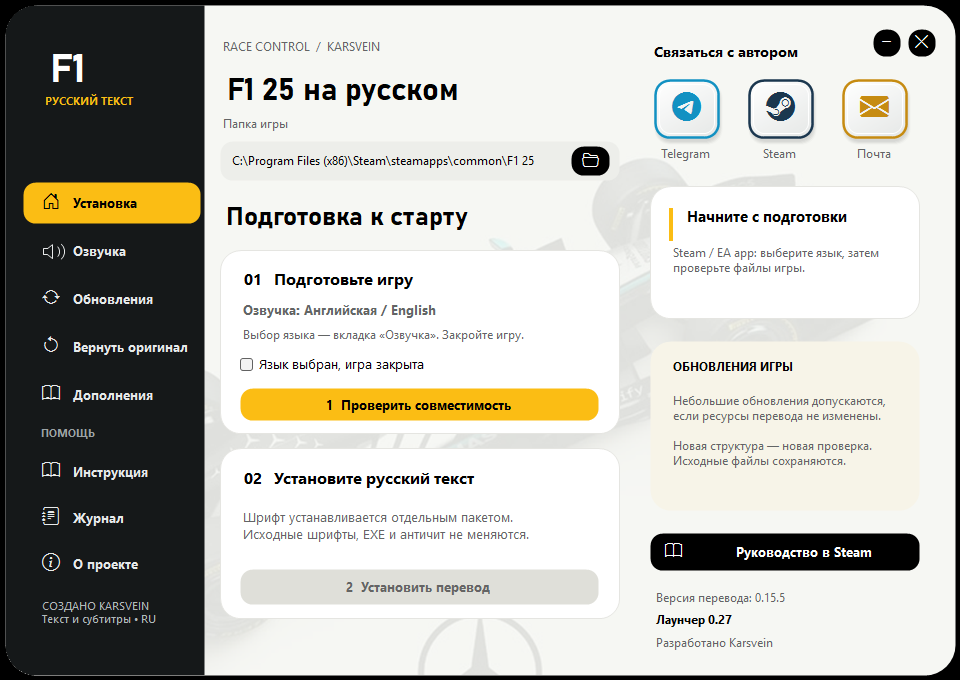
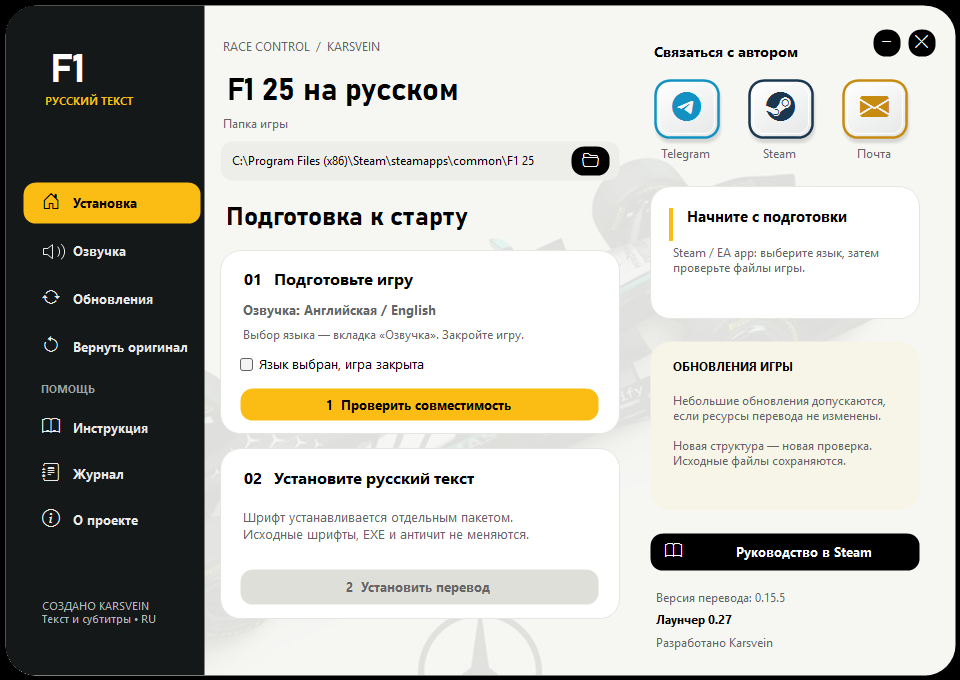
Ship Steam and EA only; keep optional addon out of release

diff --git a/Launcher.cs b/Launcher.cs
@@ -72,9 +72,9 @@ sealed partial class Launcher : Form {
   path=new TextBox{Bounds=new Rectangle(12,12,332,22),BorderStyle=BorderStyle.None,Font=new Font("Segoe UI",9),BackColor=location.BackColor,Text=@"C:\Program Files (x86)\Steam\steamapps\common\F1 25",AccessibleName="Папка игры F1 25"};location.Controls.Add(path);
   path.TextChanged+=(s,e)=>{prepared=false;RefreshControls();RefreshVoice();SetStatus("Путь изменён","Проверьте выбранную папку перед установкой.",muted);};
   browse=ButtonAt(location,"",351,5,39,30,false,0xf3d8);browse.AccessibleName="Выбрать папку игры";contactTips.SetToolTip(browse,"Выбрать папку F1 25");browse.Click+=(s,e)=>{using(var d=new FolderBrowserDialog()){d.Description="Папка F1 25";if(Directory.Exists(path.Text))d.SelectedPath=path.Text;if(d.ShowDialog(this)==DialogResult.OK)path.Text=d.SelectedPath;}};
-  Nav("install","Установка",0xf423,182);Nav("voice","Озвучка",-1,230);Nav("updates","Обновления",0xf130,278);Nav("restore","Вернуть оригинал",0xf117,326);Nav("addons","Дополнения",0xf194,374);
-  LabelAt(this,"ПОМОЩЬ",38,426,171,20,8,FontStyle.Bold,Color.FromArgb(156,163,165));
-  Nav("help","Инструкция",0xf194,451);Nav("log","Журнал",0xf444,497);Nav("about","О проекте",0xf431,543);
+  Nav("install","Установка",0xf423,182);Nav("voice","Озвучка",-1,230);Nav("updates","Обновления",0xf130,278);Nav("restore","Вернуть оригинал",0xf117,326);
+  LabelAt(this,"ПОМОЩЬ",38,382,171,20,8,FontStyle.Bold,Color.FromArgb(156,163,165));
+  Nav("help","Инструкция",0xf194,407);Nav("log","Журнал",0xf444,453);Nav("about","О проекте",0xf431,499);
   LabelAt(this,"СОЗДАНО KARSVEIN\nТекст и субтитры • RU",39,599,170,48,8,FontStyle.Regular,Color.FromArgb(179,185,187));
   LabelAt(this,"Связаться с автором",650,42,195,23,10,FontStyle.Bold,Color.Black);
   minimize=ButtonAt(this,"",873,29,28,28,false,0xf2ea);minimize.AccessibleName="Свернуть";minimize.Click+=(s,e)=>WindowState=FormWindowState.Minimized;
@@ -92,7 +92,7 @@ sealed partial class Launcher : Form {
   packageVersion=LabelAt(this,"",653,590,272,22,9,FontStyle.Regular,muted);
   LabelAt(this,"Лаунчер 0.27",653,612,266,22,9,FontStyle.Bold,Color.Black);
   LabelAt(this,"Разработано Karsvein",653,635,266,22,9,FontStyle.Regular,muted);
-  BuildInstall();BuildVoice();BuildUpdates();BuildRestore();BuildHelp();BuildLog();BuildAbout();BuildAddons();ShowPage("install");RefreshVersions();RefreshControls();
+  BuildInstall();BuildVoice();BuildUpdates();BuildRestore();BuildHelp();BuildLog();BuildAbout();ShowPage("install");RefreshVersions();RefreshControls();
   Activated+=(s,e)=>{if(!busy)RefreshVoice();};
   path.TabIndex=0;browse.TabIndex=1;ready.TabIndex=2;prepare.TabIndex=3;install.TabIndex=4;
   Shown+=(s,e)=>{path.SelectionStart=path.Text.Length;path.SelectionLength=0;nav["install"].Focus();};contactTips.SetToolTip(path,path.Text);
@@ -190,7 +190,7 @@ sealed partial class Launcher : Form {
  Label LabelAt(Control parent,string text,int x,int y,int w,int h,float size,FontStyle style,Color color){var l=new Label{Text=text,Bounds=new Rectangle(x,y,w,h),Font=new Font(size>=19?"Bahnschrift":"Segoe UI",size,style),ForeColor=color,BackColor=Color.Transparent,UseMnemonic=false};parent.Controls.Add(l);return l;}
  Button ButtonAt(Control parent,string text,int x,int y,int w,int h,bool primary,int glyph=0){var b=new UiButton{Primary=primary,Glyph=glyph,Text=text,Bounds=new Rectangle(x,y,w,h),Font=new Font("Segoe UI",9.5f,FontStyle.Bold),AccessibleName=text};parent.Controls.Add(b);return b;}
  void RefreshVersions(){if(packageVersion!=null)packageVersion.Text="Версия перевода: "+Updates.LocalVersion(home);}
- void RefreshControls(){RefreshAddons();if(prepare==null||install==null)return;bool pending=File.Exists(Path.Combine(home,"update-pending.json"));prepare.Enabled=!busy&&!pending;install.Enabled=!busy&&!pending&&prepared&&ready.Checked;restore.Enabled=!busy&&!pending;browse.Enabled=!busy;path.Enabled=!busy;ready.Enabled=!busy;help.Enabled=!busy;details.Enabled=!busy;checkUpdate.Enabled=!busy;applyUpdate.Enabled=!busy&&candidate!=null&&candidate.Available;recoverUpdate.Enabled=!busy&&File.Exists(Path.Combine(home,"update-pending.json"));installUpdate.Enabled=!busy;voice.Enabled=!busy;voiceSteam.Enabled=!busy;voiceRefresh.Enabled=!busy;progress.Visible=busy;closeButton.Enabled=!busy;AcceptButton=currentPage=="install"?(install.Enabled?install:prepare):currentPage=="updates"?checkUpdate:null;}
+ void RefreshControls(){if(prepare==null||install==null)return;bool pending=File.Exists(Path.Combine(home,"update-pending.json"));prepare.Enabled=!busy&&!pending;install.Enabled=!busy&&!pending&&prepared&&ready.Checked;restore.Enabled=!busy&&!pending;browse.Enabled=!busy;path.Enabled=!busy;ready.Enabled=!busy;help.Enabled=!busy;details.Enabled=!busy;checkUpdate.Enabled=!busy;applyUpdate.Enabled=!busy&&candidate!=null&&candidate.Available;recoverUpdate.Enabled=!busy&&File.Exists(Path.Combine(home,"update-pending.json"));installUpdate.Enabled=!busy;voice.Enabled=!busy;voiceSteam.Enabled=!busy;voiceRefresh.Enabled=!busy;progress.Visible=busy;closeButton.Enabled=!busy;AcceptButton=currentPage=="install"?(install.Enabled?install:prepare):currentPage=="updates"?checkUpdate:null;}
  void SetStatus(string title,string text,Color color){if(statusTitle==null)return;statusTitle.Text=title;statusText.Text=text.Length>120?text.Substring(0,117)+"…":text;phase.BackColor=color;}
  void ShowLog(){ShowPage("log");}
  void StartJob(string title,Func<string> job,Action done){if(busy)return;busy=true;SetStatus(title,"Дождитесь завершения операции.",accent);RefreshControls();ThreadPool.QueueUserWorkItem(delegate{string result;bool ok=true;try{result=job();}catch(Exception ex){ok=false;result=ex.Message;}if(!IsDisposed)BeginInvoke((Action)delegate{busy=false;lastLog=result;logBox.Text=result;SetStatus(ok?"Готово":"Операция не завершена",result,ok?green:Color.FromArgb(171,63,28));RefreshVersions();if(currentPage=="updates")updateMessage.Text=result;if(ok&&done!=null)done();RefreshControls();});});}
@@ -242,8 +242,7 @@ sealed partial class Launcher : Form {
   Check(ContainsText(this,"Японский также поддерживается, но не обязателен.")&&!ContainsText(this,"Японский нужен для шрифта"),"optional Japanese base");
   Check(ContainsText(this,"Шрифт устанавливается отдельным пакетом.")&&ContainsText(this,"Будет восстановлен исходный game.dat."),"native package information");
   Check(ClientSize==new Size(960,680),"window size");foreach(Control c in Controls)Check(c.Left>=5&&c.Top>=5&&c.Right<=Width-5&&c.Bottom<=Height-5,"inside frame: "+c.Text);
-  foreach(string page in new[]{"install","voice","updates","restore","addons","help","log","about"}){ShowPage(page);Check(nav[page].Selected&&currentPage==page,"navigation "+page);}ShowPage("install");
-  Check(ContainsText(this,"Дополнения")&&ContainsText(this,"Установить русский модуль"),"addon page");
+  foreach(string page in new[]{"install","voice","updates","restore","help","log","about"}){ShowPage(page);Check(nav[page].Selected&&currentPage==page,"navigation "+page);}ShowPage("install");
   Check(voice.Items.Count==2&&SelectedVoice=="english","English default and Japanese option");
   Check(ParseSteamVoice("\"UserConfig\" { \"language\" \"english\" } \"MountedConfig\" { \"language\" \"japanese\" }")=="english","selected language beats mounted language");
   Check(ParseSteamVoice("\"MountedConfig\" { \"language\" \"japanese\" }")=="","no guessing from mounted language");

diff --git a/README.md b/README.md
@@ -11,7 +11,6 @@
 - Инструкции по выбору английской или японской озвучки в обоих клиентах. Выбор в лаунчере сохраняет предпочтение, но не скачивает голоса и не переключает язык клиента.
 - Русский текст и отдельные шрифты для английской и японской основы. Штатные шрифты, EXE, античит и голосовые банки не редактируются.
 - Проверка совместимых микрообновлений сохранена. Изменения необходимых ресурсов по-прежнему останавливают установку.
-- Раздел «Дополнения»: необязательный переводчик интерфейса SimHub/RaycerRay. Основной сторонний плагин не входит в архив. Полнота перевода этого дополнения пока не подтверждена; см. его отдельную инструкцию.
 
 **EA app: экспериментальная поддержка сборки с EXE 1.0.141.7865.** Установка и откат проверены на копиях файлов. Запуск игры, все сцены, озвучка и онлайн на EA-ПК ещё требуют проверки игроком. Профиль Steam build 25251167 сохранён без изменения.
 
@@ -29,7 +28,7 @@
 **Старый лаунчер обновляет кнопкой только текст. Для поддержки EA скачайте полный архив 0.27.** Текст остаётся 0.15.5.
 
 ## Проверки
-56 проверок движка, 85 интерфейса и 13 дополнительного установщика. Установка/повторная установка/откат EA, регрессия Steam, отказ при изменении нужного ресурса, синтетическое постороннее микрообновление. [Подробности](TEST_REPORT.md).
+56 проверок движка и 81 проверка интерфейса. Установка/повторная установка/откат EA, регрессия Steam, отказ при изменении нужного ресурса, синтетическое постороннее микрообновление. [Подробности](TEST_REPORT.md).
 
 Новые сборки игры проверяются по ресурсам и индексу. Совместимость со всеми будущими обновлениями не обещается; проверки не отключены.
 
@@ -48,7 +47,7 @@ Windows, .NET Framework 4.x, Windows PowerShell 5.1:
 powershell.exe -NoProfile -ExecutionPolicy Bypass -File .\build.ps1
 ```
 
-Результат: `dist/F1_25_RU_v0.27_text0.15.5.zip`. Проверяются хеши payload и 85 UI self-tests. Скрипт отказывается перезаписывать существующий результат.
+Результат: `dist/F1_25_RU_v0.27_text0.15.5.zip`. Проверяются хеши payload и 81 UI self-tests. Скрипт отказывается перезаписывать существующий результат.
 
 `Compatibility.cs` поставляется рядом с `Engine.ps1`. Старые `payload/config.patch` и `payload/fonts_japanese.erp` оставлены в истории репозитория, в текущий архив не включаются.
 

diff --git a/TEST_REPORT.md b/TEST_REPORT.md
@@ -1,4 +1,4 @@
-# Проверка лаунчера 0.27
+# Проверка лаунчера 0.27
 
 ## Движок установки — 56 проверок
 - Исходный лаунчер 0.26 отклоняет полученную EA-сборку: код 1, файлы сохранены.
@@ -9,15 +9,10 @@
 - Старый профиль Steam сохранён полностью; установка и откат — код 0.
 - EXE, античит и исходные шрифты не изменены.
 
-## Интерфейс — 85 проверок
+## Интерфейс — 81 проверок
 Автоопределение Steam / EA app, инструкции по языку, неизвестный клиент,
 приоритет Steam appmanifest, английская/японская озвучка, запрет установки
 до подготовки, навигация, блокировка во время операции и размещение в рамке.
-
-## Дополнительный модуль — 13 проверок
-Установка и удаление отдельного переводчика интерфейса SimHub/RaycerRay
-на фикстурах. Основной сторонний плагин не входит в пакет и не изменяется.
-Полнота визуального перевода плагина не подтверждена.
 
 ## Ресурсы EA
 Проверены 107291 записи ресурсов. Набор путей/размеров/идентификаторов

diff --git a/CHANGELOG.md b/CHANGELOG.md
@@ -3,9 +3,8 @@
 - Общий лаунчер Steam / EA app; отдельный профиль EA 1.0.141.7865.
 - Сохранены проверки ресурсов и прежний профиль Steam.
 - Инструкции выбора английской/японской озвучки для обоих клиентов.
-- Необязательное дополнение SimHub/RaycerRay; перевод его интерфейса экспериментальный.
 - Текст остаётся 0.15.5. EA: установка/откат на копиях проверены, запуск и онлайн требуют проверки игроком.
-- 56 проверок движка, 85 UI, 13 дополнительного установщика.
+- 56 проверок движка, 81 UI.
 
 # Изменения перевода
 
